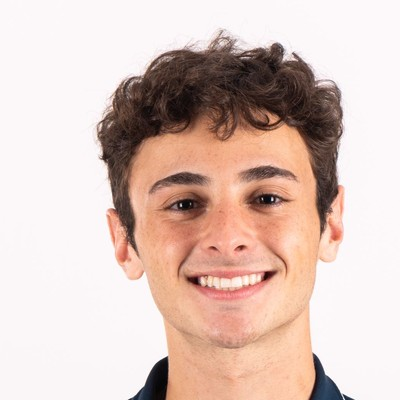
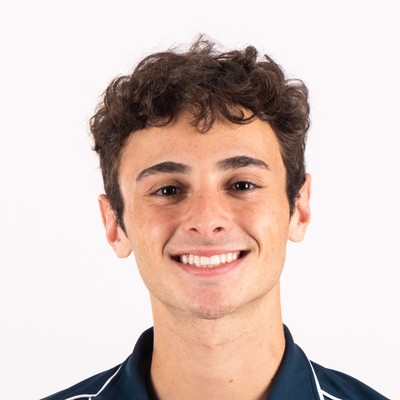
Ryan headshot: face-detected center crop + explicit object-position

diff --git a/index.html b/index.html
@@ -382,7 +382,7 @@
             font-family: 'Bebas Neue', sans-serif; font-size: 1.4rem;
             color: var(--green); letter-spacing: 1px;
         }
-        .founder-img { object-fit: cover; }
+        .founder-img { object-fit: cover; object-position: center center; }
         .founder-name {
             font-family: 'Bebas Neue', sans-serif; font-size: 1.5rem;
             letter-spacing: 1px; margin-bottom: 0.15rem;
